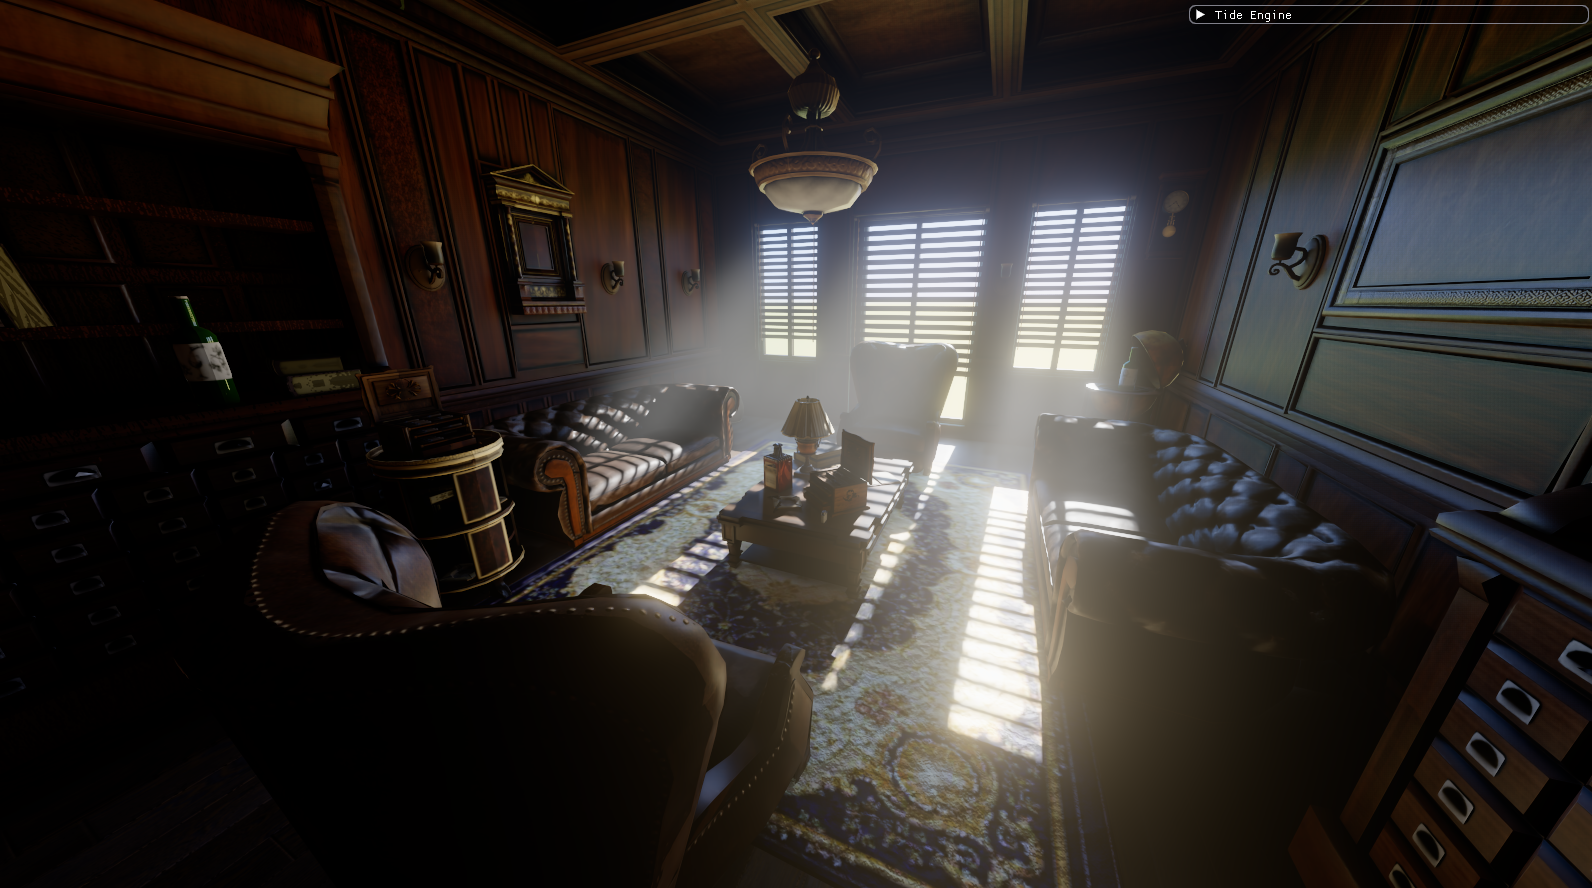
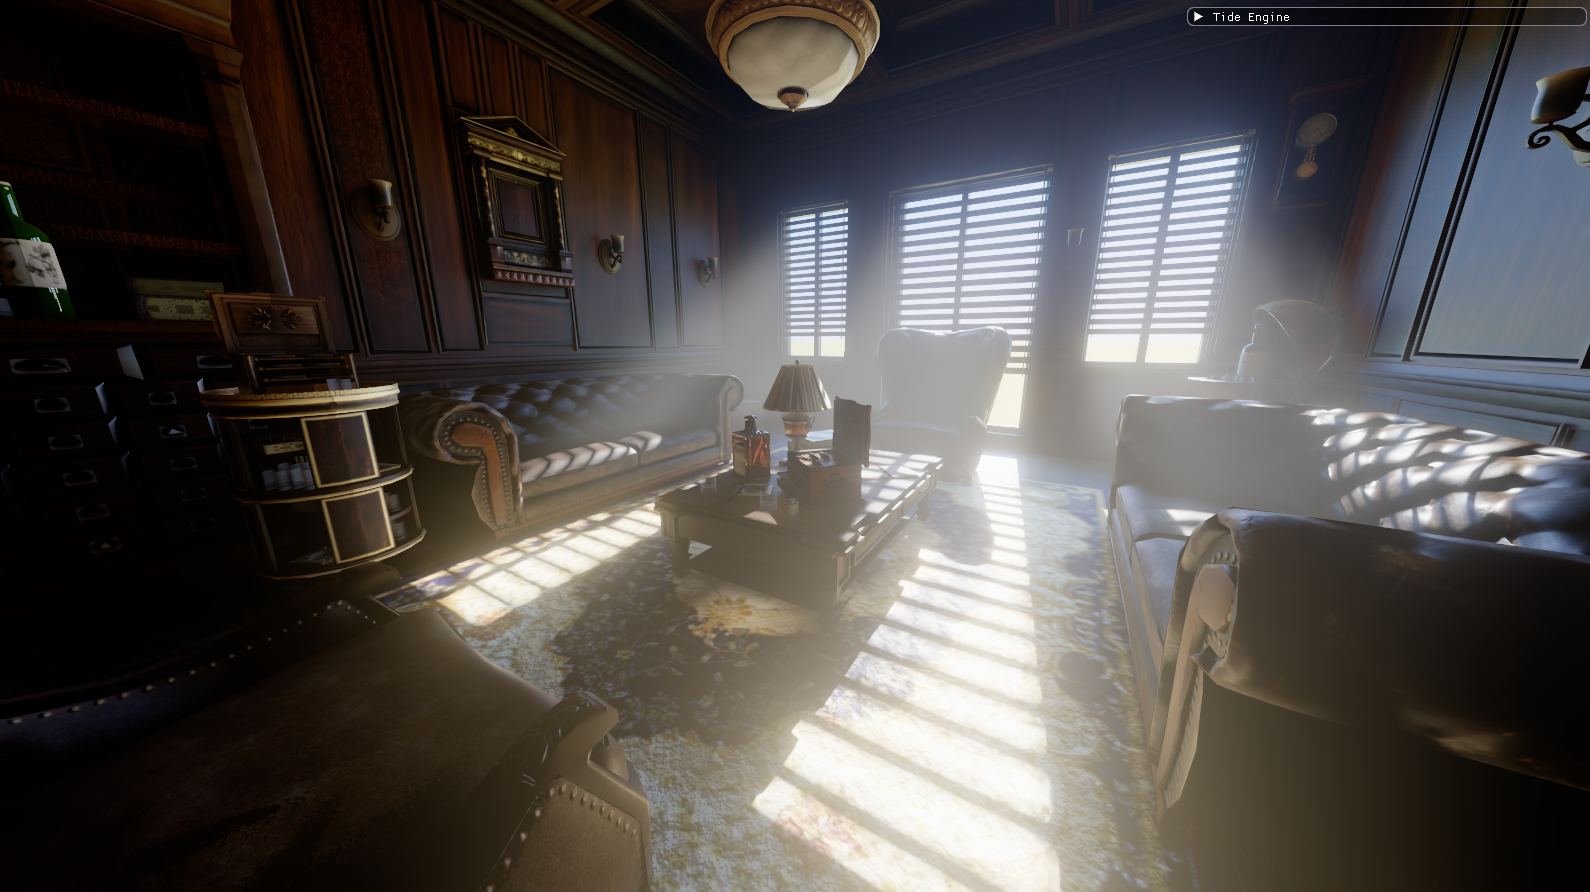
transparent lighting

diff --git a/Tide Engine/src/renderer.cpp b/Tide Engine/src/renderer.cpp
@@ -663,10 +663,12 @@ void Renderer::init(VulkanEngine& eng, VkFormat swapchainFormat, VkFormat depthF
         VkPushConstantRange pc{};
         pc.stageFlags = VK_SHADER_STAGE_VERTEX_BIT | VK_SHADER_STAGE_FRAGMENT_BIT;
         pc.size = sizeof(TransparentPush);
+        // set0 = scene (TLAS b5), set1 = DDGI sample (indirect light on glass).
+        VkDescriptorSetLayout tsets[2] = {sceneSetLayout, m_ddgiSampleSetLayout};
         VkPipelineLayoutCreateInfo lci{};
         lci.sType = VK_STRUCTURE_TYPE_PIPELINE_LAYOUT_CREATE_INFO;
-        lci.setLayoutCount = 1;
-        lci.pSetLayouts = &sceneSetLayout; // scene set carries the TLAS (b5)
+        lci.setLayoutCount = 2;
+        lci.pSetLayouts = tsets;
         lci.pushConstantRangeCount = 1;
         lci.pPushConstantRanges = &pc;
         VK_CHECK(vkCreatePipelineLayout(device, &lci, nullptr, &m_transparentLayout));
@@ -2250,8 +2252,9 @@ void Renderer::record(VkCommandBuffer cmd, const Scene& scene,
         vkCmdSetViewport(cmd, 0, 1, &vp);
         vkCmdSetScissor(cmd, 0, 1, &scissor);
         vkCmdBindPipeline(cmd, VK_PIPELINE_BIND_POINT_GRAPHICS, m_transparentPipeline);
+        VkDescriptorSet tsets[2] = {scene.descriptorSet, m_ddgiSampleSet};
         vkCmdBindDescriptorSets(cmd, VK_PIPELINE_BIND_POINT_GRAPHICS, m_transparentLayout,
-                                0, 1, &scene.descriptorSet, 0, nullptr);
+                                0, 2, tsets, 0, nullptr);
 
         VkDeviceSize offset = 0;
         vkCmdBindVertexBuffers(cmd, 0, 1, &scene.vertexBuffer.buffer, &offset);
@@ -2275,7 +2278,7 @@ void Renderer::record(VkCommandBuffer cmd, const Scene& scene,
             push.model = inst.transform;
             push.cameraPos = glm::vec4(cameraPos, (float)g.materialIndex);
             push.sunDir = glm::vec4(sun, settings.ambient);
-            push.sunColor = glm::vec4(glm::vec3(settings.sunIntensity), 0.0f);
+            push.sunColor = glm::vec4(glm::vec3(settings.sunIntensity), settings.glassFresnel);
             push.shadowCfg = shadowCfg;
             vkCmdPushConstants(cmd, m_transparentLayout,
                                VK_SHADER_STAGE_VERTEX_BIT | VK_SHADER_STAGE_FRAGMENT_BIT,

diff --git a/Tide Engine/src/ui.cpp b/Tide Engine/src/ui.cpp
@@ -227,6 +227,9 @@ void Ui::buildPanel(Settings& s, Camera& cam, bool camPlaying, bool& playToggled
         ImGui::SliderFloat("Max roughness",  &s.ssrMaxRoughness, 0.05f, 1.0f, "%.2f");
         ImGui::SetItemTooltip("Skip reflections on surfaces rougher than this (DDGI covers diffuse).");
         ImGui::SliderFloat("Intensity##refl",&s.reflectionIntensity, 0.0f, 2.0f, "%.2f");
+        ImGui::SliderFloat("Glass Fresnel",  &s.glassFresnel, 0.0f, 1.0f, "%.2f");
+        ImGui::SetItemTooltip("How much grazing Fresnel firms up transparent (glass) opacity.\n"
+                              "0 = opacity unchanged; 1 = edges go fully mirror-opaque.");
     }
 
     ImGui::SeparatorText("Volumetric Fog");

diff --git a/Tide Engine/src/vk_engine.cpp b/Tide Engine/src/vk_engine.cpp
@@ -1046,7 +1046,7 @@ void VulkanEngine::updateCameraPath(float dt) {
 // ---------------------------------------------------------------------------
 namespace {
 constexpr uint32_t kStateMagic   = 0x54494445u; // 'TIDE'
-constexpr uint32_t kStateVersion = 14u; // bump whenever the Settings struct layout changes
+constexpr uint32_t kStateVersion = 15u; // bump whenever the Settings struct layout changes
 struct StateBlob {
     uint32_t  magic, version;
     Settings  settings;

diff --git a/Tide Engine/src/settings.h b/Tide Engine/src/settings.h
@@ -65,6 +65,7 @@ struct Settings {
     float ssrThickness       = 0.5f;  // depth-test tolerance (linear depth units)
     float ssrMaxRoughness    = 0.6f;  // skip reflections above this (diffuse-dominated)
     float reflectionIntensity= 1.0f;  // master reflection multiplier
+    float glassFresnel       = 0.3f;  // how much grazing Fresnel firms up glass opacity
 
     // TAA / DLSS pipeline foundation.
     bool  taaJitter       = false;  // sub-pixel Halton jitter — auto-forced on when DLSS is active